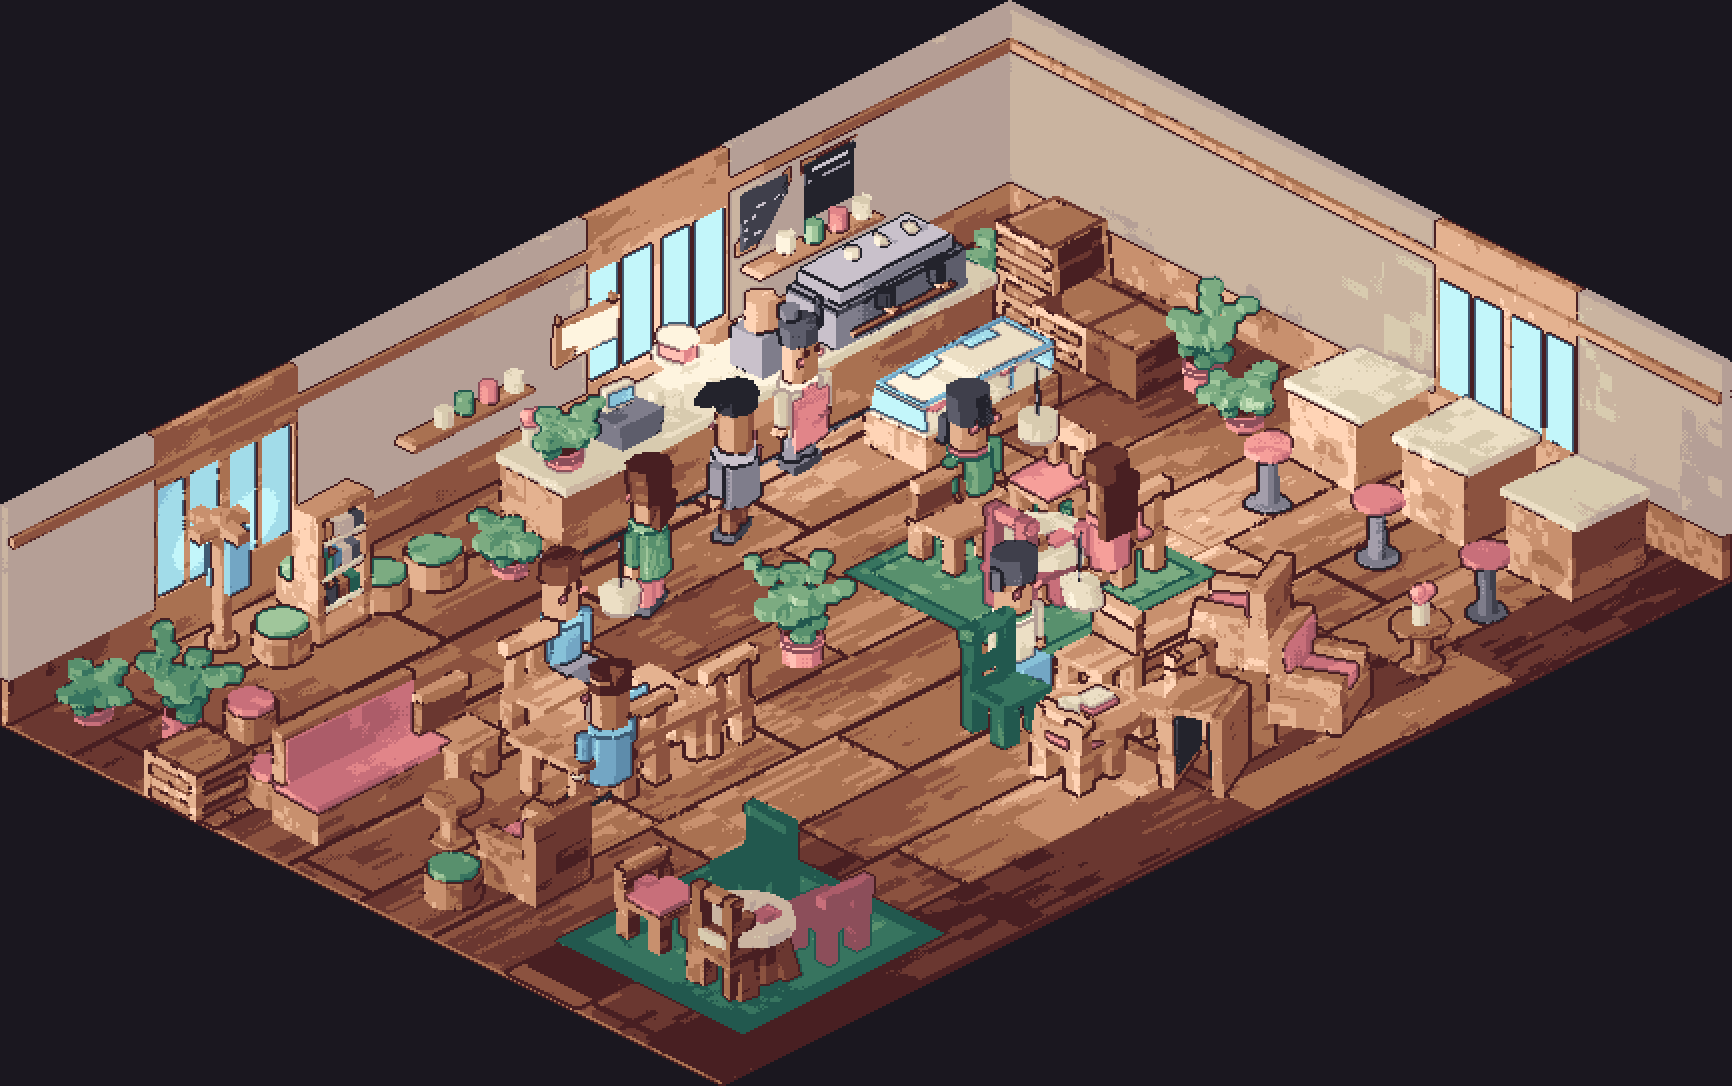
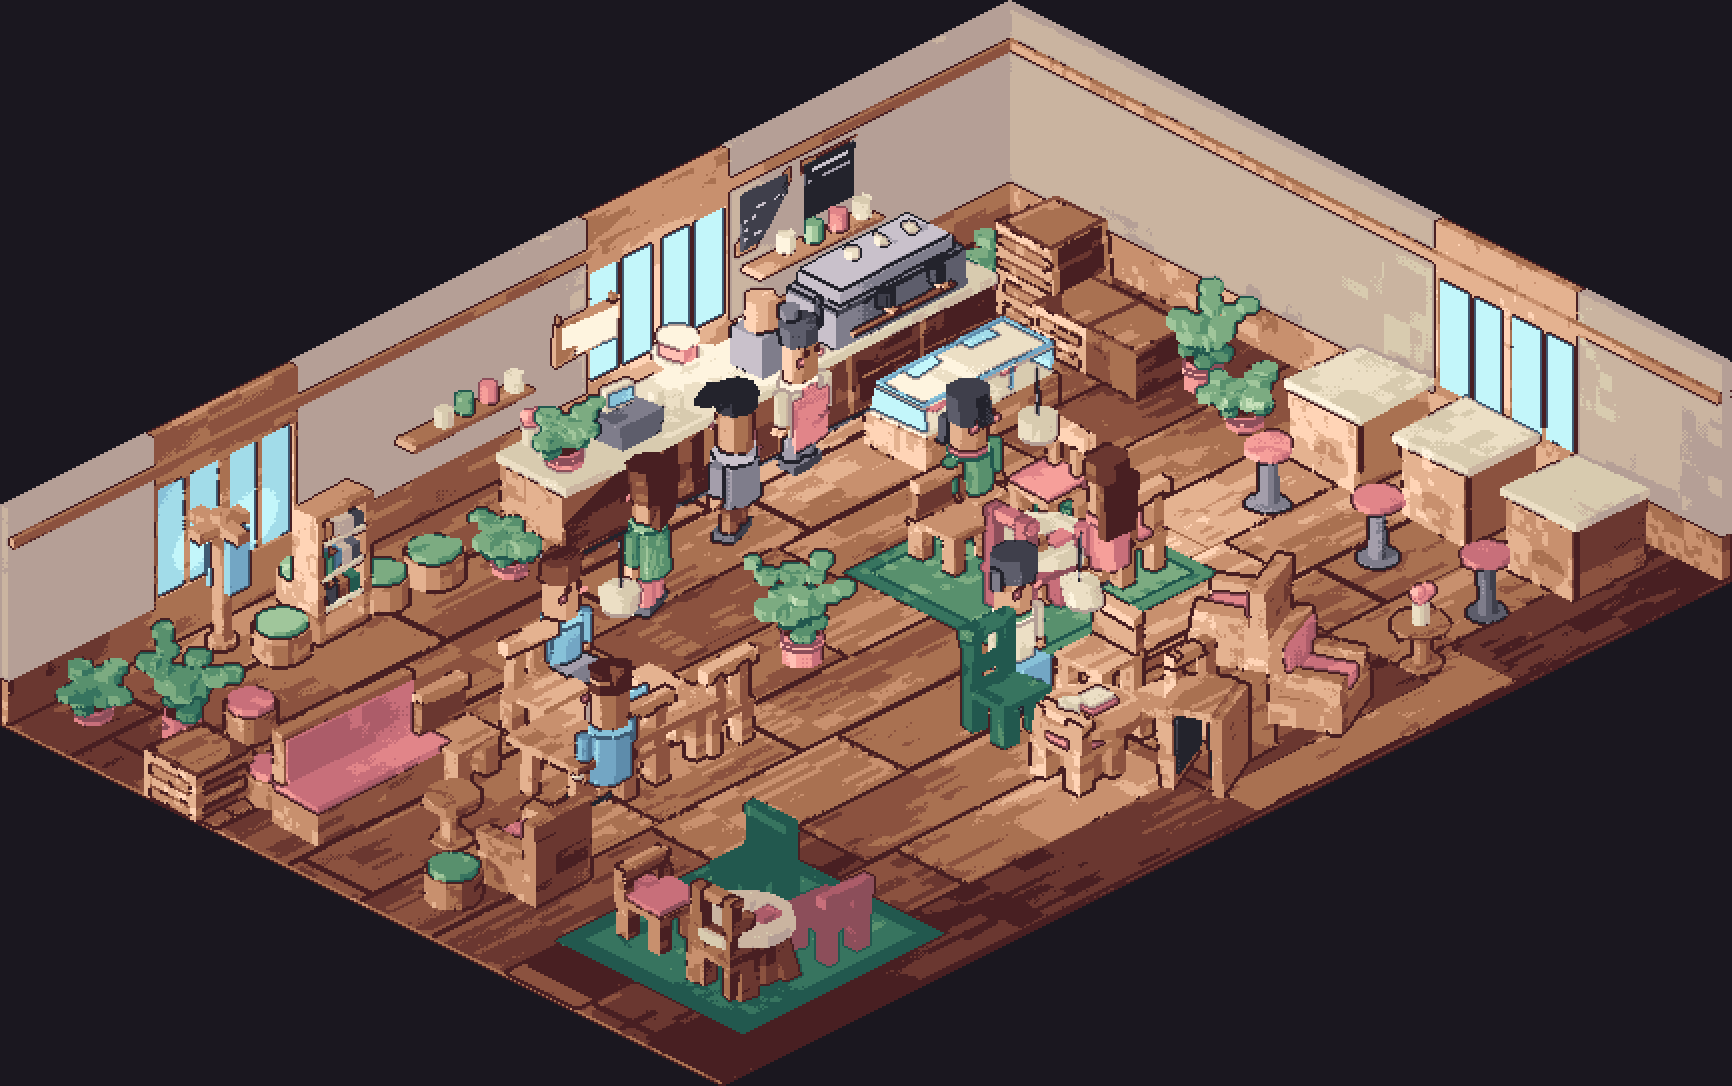
Counter fronts, and which face the customer sees
Nine identical boxes -- six service modules and three window-bar modules
-- make the single largest mass in frame, and the front of each was one
flat face at one ramp step, which is the most blockout-looking thing an
interior can put on screen at that size.

Four treatments, all drawn as value rather than geometry: the modules
have to keep tiling flush, and anything modelled proud of the front is
the first thing a customer walks into.

The front is not always +y. The service run tiles along x, so its front
is +y. The window bar tiles along Y, so its +y face is the joint between
two modules -- detail put there is sealed inside the run, present in the
mesh, paid for in triangles, and never once rendered. The camera sees +x
and +y, but which of those an object presents depends on how its
neighbours are laid out, and only the room knows that. Hence `front`.

The style table lists plain twice of six. A run with four distinct fronts
in six modules reads as a showroom, so the failure mode of a generator is
not always too little variety. Where a run STARTS stayed the room's job:
at seed base 4 the six modules come out drawers/shelf/plain/plain/beaded/
plain, where most bases give four plains and a few give three different
fronts in a row. What a run opens on is composition, and composition is
placement.

The first version drew everything one ramp step down from the carcass and
the sheet showed eight modules identical to the eye. One step breaks a
[…]

diff --git a/tools/art_review.py b/tools/art_review.py
@@ -358,27 +358,36 @@ def check_member_thickness(mesh, name="asset", ppu=ROOM_PX_PER_UNIT,
     return []
 
 
-# What each seeded generator is, and the world span to judge it across. The
-# span is SHARED between a generator's seeds on purpose: normalising each mesh
-# to fill the frame would hide size variation, which is a real part of a
+# What each seeded generator is, the world span to judge it across, and the
+# spread its output is expected to clear.
+#
+# The span is SHARED between a generator's seeds on purpose: normalising each
+# mesh to fill the frame would hide size variation, which is a real part of a
 # generator's range and the cheapest part to get wrong.
-GENERATORS = (
-    ("table_round", lambda A, s: A.table_round(seed=s), 1.7),
-    ("table_4top", lambda A, s: A.table_4top(seed=s), 2.6),
-    ("chair", lambda A, s: A.chair(seed=s), 1.4),
-    ("plant_large", lambda A, s: A.plant_large(seed=s), 1.7),
-    ("plant_small", lambda A, s: A.plant_small(seed=s), 1.1),
-    ("bookshelf", lambda A, s: A.bookshelf(seed=s), 1.9),
-)
+#
+# The floor is per-generator because a single number is the wrong shape for
+# this. The default catches a generator that has died; a counter module that
+# varied as much as a houseplant would be a defect, not a success, since a run
+# of six fitted cabinets showing four different fronts reads as a showroom.
+# Every relaxed floor carries the reason it is relaxed, the same role
+# `ACCEPTED_BURIAL` plays for occlusion -- an unexplained loosened threshold is
+# how a ratchet turns back into decoration.
+DEFAULT_SPREAD_FLOOR = 0.12
 
-# Below this a row of seeds reads as one object. It is set under the furniture
-# generators' measured 17% rather than at it, because the number this check
-# exists to catch is a generator that has quietly become a fixed mesh -- a
-# seed argument that is accepted and ignored, or a style table that stopped
-# being reached. Tightening it toward the plants' 41% would be asserting that
-# cafe chairs ought to vary as much as houseplants, which is a taste call
-# nobody has made.
-MIN_SILHOUETTE_SPREAD = 0.12
+GENERATORS = (
+    ("table_round", lambda A, s: A.table_round(seed=s), 1.7, None, ""),
+    ("table_4top", lambda A, s: A.table_4top(seed=s), 2.6, None, ""),
+    ("chair", lambda A, s: A.chair(seed=s), 1.4, None, ""),
+    ("plant_large", lambda A, s: A.plant_large(seed=s), 1.7, None, ""),
+    ("plant_small", lambda A, s: A.plant_small(seed=s), 1.1, None, ""),
+    ("bookshelf", lambda A, s: A.bookshelf(seed=s), 1.9, None, ""),
+    ("counter", lambda A, s: A.counter(seed=s), 1.5, 0.04,
+     "a fitted module, whose front is one of three faces this camera sees and "
+     "whose style table is deliberately weighted toward plain; the seed has to "
+     "do something, not a lot. Calibrated under a measured 7%, the same way "
+     "the occlusion thresholds were -- a floor set looser than the scan that "
+     "found the defect is a floor that is blind"),
+)
 
 
 def screen_materials(mesh, azimuth: float, span: float, res: int = 64) -> list:
@@ -454,7 +463,7 @@ def _screen_spread(frames: list) -> float:
 
 
 def check_generator_range(seeds: int = 8, azimuth: float = 45.0,
-                          floor: float = MIN_SILHOUETTE_SPREAD) -> list[str]:
+                          floor: float = DEFAULT_SPREAD_FLOOR) -> list[str]:
     """Do the seeded generators actually generate different shapes?
 
     A generator can rot in a way nothing else here notices. Add a base style
@@ -464,12 +473,12 @@ def check_generator_range(seeds: int = 8, azimuth: float = 45.0,
     room full of furniture, and the room render looks fine, because four
     chairs of the wrong four are still four chairs.
 
-    The measure is mean pairwise Jaccard distance between the silhouettes of
-    consecutive seeds. It has to be a distance and not a count: counting
-    *distinct* silhouettes is a threshold at one pixel, which reported 8 of 8
-    for every generator in the library including the ones the eye read as a
-    single object. That was `check_buried_detail`'s first metric exactly --
-    a measure of whether anything moved, standing in for how much.
+    The measure is mean pairwise disagreement between the resolved screen
+    materials of consecutive seeds. It has to be a distance and not a count:
+    counting *distinct* silhouettes is a threshold at one pixel, and it
+    reported 8 of 8 for every generator in the library including the ones the
+    eye read as a single object. That was `check_buried_detail`'s first metric
+    exactly -- a measure of whether anything moved, standing in for how much.
     """
     import sys
     from pathlib import Path
@@ -477,13 +486,14 @@ def check_generator_range(seeds: int = 8, azimuth: float = 45.0,
     import assetlib as A
 
     out = []
-    for name, factory, span in GENERATORS:
+    for name, factory, span, own, why in GENERATORS:
+        bar = floor if own is None else own
         spread = _screen_spread([screen_materials(factory(A, s + 1), azimuth,
                                                   span) for s in range(seeds)])
-        if spread < floor:
-            out.append(f"{name}: screen spread {spread:.0%} over {seeds} "
-                       f"seeds (floor {floor:.0%}) -- the seed is barely "
-                       f"changing the shape")
+        if spread < bar:
+            out.append(f"{name}: screen spread {spread:.0%} over {seeds} seeds "
+                       f"(floor {bar:.0%}{'; ' + why if why else ''}) -- the "
+                       f"seed is barely changing the shape")
     return out
 
 

diff --git a/tools/assetlib.py b/tools/assetlib.py
@@ -291,9 +291,67 @@ def wall_run(start, along: str, length: int, height=2.45,
 
 # --- props -------------------------------------------------------------------
 
-def counter(kick=True) -> Mesh:
+# Counter front treatments.
+#
+# Each takes `put(u0, u1, v0, v1, material)`, where u runs along the face and v
+# up it. They do not know which face they are drawing on, because the service
+# run tiles along x and the window bar tiles along y -- so the bar's front is
+# its +x face, and detail put on +y would be sandwiched between two modules and
+# never seen. `counter` supplies the mapping.
+def _front_plain(put, rnd):
+    """A framed panel. The default, and the one a run can carry six of."""
+    put(0.0, 1.0, 0.0, 1.0, "wood-2")
+
+
+def _front_drawers(put, rnd):
+    """Two drawer fronts with a reveal between them."""
+    mid = 0.42 + rnd() * 0.14
+    for a, b in ((0.0, mid - 0.02), (mid + 0.02, 1.0)):
+        put(0.0, 1.0, a, b, "wood-2")
+        # A pull, drawn as one lighter band. At 27 px a knob is a pixel and a
+        # handle is a line, so it may as well be the line.
+        h = (a + b) / 2
+        put(0.34, 0.66, h - 0.035, h + 0.035, "wood+1")
+
+
+def _front_shelf(put, rnd):
+    """An open recess: the darkest module, and the one that breaks a long run."""
+    put(0.0, 1.0, 0.0, 1.0, "wood-2")
+    put(0.10, 0.90, 0.13, 0.88, "wood-4")
+    put(0.10, 0.90, 0.50, 0.55, "wood")
+
+
+def _front_beaded(put, rnd):
+    """Vertical beadboard. Five strips, so each clears two pixels at room scale."""
+    put(0.0, 1.0, 0.0, 1.0, "wood-1")
+    for k in (0, 2, 4):
+        put(k / 5.0, (k + 1) / 5.0 - 0.014, 0.0, 1.0, "wood-3")
+
+
+FRONT_STYLES = (_front_plain, _front_drawers, _front_shelf, _front_beaded,
+                _front_drawers, _front_plain)
+
+
+def counter(kick=True, seed: int | None = None, front: str = "y") -> Mesh:
     """Modular: the body spans the FULL tile so a run tiles seamlessly.
-    Insetting it left a seam between every adjacent module."""
+    Insetting it left a seam between every adjacent module.
+
+    The room's service run is six of these and the window bar three more, so
+    nine identical boxes make the single largest mass in frame -- and the front
+    was one flat face at one ramp step, which is the most blockout-looking thing
+    the room can show at that size.
+
+    `seed` picks a front treatment. All of them are drawn as value, never as
+    geometry: the modules have to keep tiling flush, and anything modelled proud
+    of the front would be the first thing a customer walks into. `FRONT_STYLES`
+    lists plain twice, because a run with four distinct fronts in six modules
+    reads as a showroom rather than as a fitted counter.
+
+    `front` is which face the customer sees, and it is not always +y. The
+    service run tiles along x so its front is +y; the window bar tiles along y,
+    so its +y face is a joint between two modules and its front is +x. Detail on
+    the wrong one is sealed inside the run.
+    """
     m = Mesh()
     # Without a plinth the carcass must reach the floor itself. It did not, so
     # every kick=False counter -- the whole window bar run -- hovered 0.10 above
@@ -303,6 +361,33 @@ def counter(kick=True) -> Mesh:
     if kick:
         m.add_box((0.0, 0.12, 0.0), (1.0, 0.88, 0.10), "neutral")  # recessed plinth
     m.add_box((0.0, 0.0, 0.82), (1.0, 1.0, 0.92), CERAMIC)      # worktop, overhangs
+    if seed is None:
+        return m
+
+    st = _mix(seed)
+
+    def rnd():
+        nonlocal st
+        st = _mix(st)
+        return st / 0x7FFFFFFF
+
+    # Inset from the module edges so two neighbours never share a reveal, which
+    # would read as one four-tile cabinet rather than as two.
+    lo, hi = 0.035, 0.965
+    z0, z1 = base + 0.03, 0.79
+    face, n = (0.9412, (0.0, 1.0, 0.0)) if front == "y" else (0.9412, (1.0, 0.0, 0.0))
+
+    def put(u0, u1, v0, v1, mat):
+        a, b = lo + (hi - lo) * u0, lo + (hi - lo) * u1
+        c, d = z0 + (z1 - z0) * v0, z0 + (z1 - z0) * v1
+        if front == "y":
+            m.add_quad((a, face, c), (b, face, c), (b, face, d), (a, face, d),
+                       mat, facing=n)
+        else:
+            m.add_quad((face, a, c), (face, b, c), (face, b, d), (face, a, d),
+                       mat, facing=n)
+
+    FRONT_STYLES[int(rnd() * len(FRONT_STYLES)) % len(FRONT_STYLES)](put, rnd)
     return m
 
 

diff --git a/tools/preview_generators.py b/tools/preview_generators.py
@@ -25,7 +25,9 @@ from PIL import Image, ImageDraw
 sys.path.insert(0, str(Path(__file__).parent))
 import assetlib as A  # noqa: E402
 from animate import render_frame  # noqa: E402
-from art_review import _screen_spread, screen_materials  # noqa: E402
+from art_review import (  # noqa: E402
+    DEFAULT_SPREAD_FLOOR, GENERATORS, _screen_spread, screen_materials,
+)
 from pixelize import load_palette  # noqa: E402
 
 ROOT = Path(__file__).resolve().parent.parent
@@ -33,21 +35,24 @@ BG = (30, 27, 36)
 LABEL = (214, 208, 218)
 DIM = (140, 136, 148)
 
-# name -> (factory taking a seed, world span to frame it in)
+# The rows come from `art_review.GENERATORS`, which is also what the check
+# gates on. Keeping a second list here is how a sheet and a check end up
+# reporting different numbers for the same generator, and when that happens
+# one of them is wrong and nobody can tell which.
 #
 # The span is per-generator because these differ in size by 3x, and a shared
 # span would render the plants at eight pixels tall to leave room for a
 # two-tile table. Framing is a property of the subject.
-ROWS = (
-    ("table_round", lambda s: A.table_round(seed=s), 1.7),
-    ("table_4top", lambda s: A.table_4top(seed=s), 2.6),
-    ("chair", lambda s: A.chair(seed=s), 1.4),
-    ("chair, cushioned", lambda s: A.chair(cushion="rose", frame="foliage-3",
-                                           seed=s), 1.4),
-    ("plant_large", lambda s: A.plant_large(seed=s), 1.7),
-    ("plant_small", lambda s: A.plant_small(seed=s), 1.1),
-    ("bookshelf", lambda s: A.bookshelf(seed=s), 1.9),
-)
+ROWS = tuple((name, (lambda f: lambda s: f(A, s))(factory), span, own)
+             for name, factory, span, own, _why in GENERATORS)
+
+# Extra rows the check does not gate on. A painted chair exercises the same
+# generator through a different material path, which is worth looking at and
+# not worth failing a build over.
+ROWS += (("chair, cushioned",
+          lambda s: A.chair(cushion="rose", frame="foliage-3", seed=s),
+          1.4, None),)
+
 
 
 def main() -> int:
@@ -67,7 +72,7 @@ def main() -> int:
                               len(ROWS) * (cell + pad) + pad), (18, 16, 22))
     d = ImageDraw.Draw(sheet)
 
-    for r, (name, factory, span) in enumerate(ROWS):
+    for r, (name, factory, span, own) in enumerate(ROWS):
         y = pad + r * (cell + pad)
         d.text((6, y + cell // 2 - 10), name, fill=LABEL)
         frames = []
@@ -93,10 +98,12 @@ def main() -> int:
             # nobody can tell which.
             frames.append(screen_materials(mesh, args.azimuth, span))
         spread = _screen_spread(frames)
+        bar = DEFAULT_SPREAD_FLOOR if own is None else own
+        under = spread < bar
         d.text((6, y + cell // 2 + 4), f"spread {spread:.0%}",
-               fill=LABEL if spread >= 0.15 else (206, 122, 122))
-        print(f"  {name:18s} screen spread {spread:5.1%}"
-              f"{'   <-- barely varies' if spread < 0.15 else ''}")
+               fill=(206, 122, 122) if under else LABEL)
+        print(f"  {name:18s} screen spread {spread:5.1%}  (floor {bar:.0%})"
+              f"{'   <-- barely varies' if under else ''}")
 
     Path(args.out).parent.mkdir(parents=True, exist_ok=True)
     sheet.save(args.out)

diff --git a/tools/render_room.py b/tools/render_room.py
@@ -94,7 +94,13 @@ def build_room():
 
     # --- service counter run against the far-right wall (modules tile flush)
     for i in range(6):
-        add(A.counter(), at=(2.0 + i, 0.85, 0), name=f"counter#{i}")
+        # Seed base chosen for the RUN, not the module: at 4 the six
+        # modules come out drawers/shelf/plain/plain/beaded/plain,
+        # which is a fitted counter. Most bases give four plains in
+        # six, and a couple give three distinct fronts in a row,
+        # which reads as a showroom. The generator is right either
+        # way; choosing where a run starts is the room's job.
+        add(A.counter(seed=4 + i), at=(2.0 + i, 0.85, 0), name=f"counter#{i}")
     add(A.espresso_machine(), at=(2.3, 0.95, 0.92), name="prop#espresso")
     add(A.grinder(),          at=(4.4, 0.95, 0.92), name="prop#grinder")
     add(A.register(),         at=(6.3, 0.95, 0.92), name="prop#register")
@@ -149,7 +155,8 @@ def build_room():
 
     # --- window bar with stools along the far-left wall
     for i in range(3):
-        add(A.counter(kick=False), at=(0.45, 5.3 + i * 1.5, 0), name=f"bar#{i}")
+        add(A.counter(kick=False, seed=1 + i, front="x"),
+            at=(0.45, 5.3 + i * 1.5, 0), name=f"bar#{i}")
         add(A.stool(), at=(1.70, 5.3 + i * 1.5, 0), name=f"stool#{i}")
 
     # --- dressing

diff --git a/ART_CRITIQUE.md b/ART_CRITIQUE.md
@@ -985,11 +985,62 @@ One argument, and the mistake stops being writable. The boxes, prisms and
 cylinders do not pass it, because their winding was fixed and verified at the
 point they were written.
 
+## The counter run, and which face is the front
+
+Nine identical boxes -- six service modules and three window-bar modules --
+make the single largest mass in frame, and the front of each was one flat face
+at one ramp step. That is the most blockout-looking thing an interior can put
+on screen at that size.
+
+The treatments are drawn as value, never as geometry, for two reasons beyond
+the usual one: the modules have to keep tiling flush, and anything modelled
+proud of the front is the first thing a customer walks into.
+
+What the counter turned up that the bookshelf did not is that **the front is
+not always +y**. The service run tiles along x, so its front is the +y face.
+The window bar tiles along *y*, so its +y face is the joint between two
+modules, and detail put there is sealed inside the run -- present in the mesh,
+paid for in triangles, and never once rendered. The camera sees +x and +y, but
+which of those a given object presents depends on how its neighbours are laid
+out, and only the room knows that. So `front` is a parameter.
+
+The style table lists plain twice out of six. A run with four distinct fronts
+in six modules reads as a showroom rather than as a fitted counter, and the
+failure mode of a generator is not always too little variety.
+
+Choosing where the run *starts* stayed the room's job. At seed base 4 the six
+modules come out drawers / shelf / plain / plain / beaded / plain; most bases
+give four plains in six, and a few give three different fronts in a row. The
+generator is equally correct either way -- what a run opens on is composition,
+and composition is placement.
+
+The first version drew all of it one ramp step down from the carcass, and the
+generator sheet showed eight modules that were, to the eye, identical. One step
+is enough to break a flat field -- that is what grain is calibrated to -- and
+not enough to say "this is a drawer and that is a shelf" at 27 px per unit.
+Panels went to two steps and the recess to four, and the measured spread went
+from 2.6% to 7%. The point is that the sheet caught this and the room render
+had not: a counter partly hidden behind three customers can look busy while
+carrying no information at all.
+
+And it forced the check to grow a per-generator floor. A counter module
+measures 3% spread, which is not a bug: the front is one of three faces this
+camera sees, and the style table is weighted toward plain on purpose. A single
+threshold cannot express both "a plant that stopped varying is broken" and "a
+cabinet that varies like a plant is broken". Every relaxed floor now carries
+the reason it is relaxed, the same role `ACCEPTED_BURIAL` plays for occlusion,
+and the relaxed one still bites -- point `counter` at an unseeded mesh and it
+fires at 0% against its own floor. That floor is set at 4%, under the measured
+7% rather than at it -- the same calibration discipline the occlusion
+thresholds needed, where defaults chosen looser than the scan that found the
+defect left the check blind.
+
 ## Where the numbers landed
 
 | | fifth pass | sixth pass |
 |---|---|---|
 | bases the tables can be built on | 2 fixed meshes | **4 styles × top shape, thickness, overhang** |
+| seeded generators in the library | 3 | **7** |
 | floor texture | one amplitude everywhere | **derived from where the seats and tills are** |
 | high-key share of frame | 63.8% | **66.7%** |
 | generator range | unmeasured | **measured, and a check** |
@@ -1000,8 +1051,9 @@ render is still byte-identical across processes.
 
 ## Still open
 
-- The espresso machine, counter and bench are still fixed meshes. Tables,
-  chairs and the bookshelf show the shape of the replacement.
+- The espresso machine, bench, armchair and pastry case are still fixed
+  meshes. Tables, chairs, the bookshelf and the counter show the shape of the
+  replacement.
 - Stages 1–3 (SDXL concept → TRELLIS 2 mesh → UniRig rig) remain unbuilt.
   Everything here is still the deterministic render half.
 - Furniture screen spread sits at 19–34% against the plants' 47–53%. That is

diff --git a/README.md b/README.md
@@ -61,6 +61,13 @@ different silhouettes. Its first version counted *distinct* silhouettes and
 scored a perfect 8 of 8 for generators the eye read as a single object, because
 distinctness is a threshold at one pixel. It measures distance now.
 
+Its floor is per-generator, and every relaxed one carries the reason it is
+relaxed. A single number is the wrong shape here: the default catches a
+generator that has died, but a counter module that varied as much as a
+houseplant would be a defect rather than a success, since a run of six fitted
+cabinets showing four different fronts reads as a showroom. An unexplained
+loosened threshold is how a ratchet turns back into decoration.
+
 This has already happened once. The first batch rotated the camera with a
 world-fixed light, so the lit face drifted around the object between directions.
 Every frame was individually valid — no per-sprite check could catch it — but it
